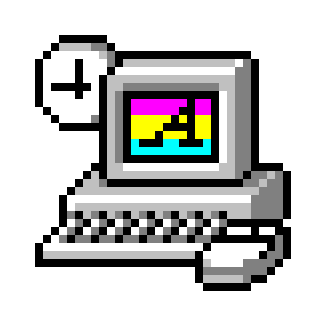
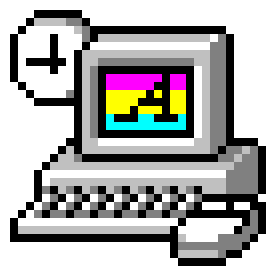
Update styles

diff --git a/src/template.html b/src/template.html
@@ -17,7 +17,7 @@
 
       <div class="desktop-icons icons">
         <div class="icon dropdown-menu" tabindex="0">
-          <img src="./img/computer-icon.png" alt="" height="90%">
+          <img class="icon-image" src="./img/computer-icon.png" alt="">
           <div class="icon-title">My Computer</div>
         </div>
       </div>
@@ -49,6 +49,7 @@
         </div>
         <div class="window-content icons">
           <div class="icon dropdown-menu" tabindex="0">
+            <img class="icon-image" src="./img/template_empty-5.png" alt="">
             <div class="icon-title">Form Validation with JavaScripts</div>
           </div>
         </div>

diff --git a/src/styles.css b/src/styles.css
@@ -217,6 +217,11 @@ a {
   align-items: center;
 }
 
+.icon-image {
+  height: 100px;
+  margin-bottom: 0.5rem;
+}
+
 .icon-title {
   border: 2px solid #00000000;
   padding: 0 0.5rem;
